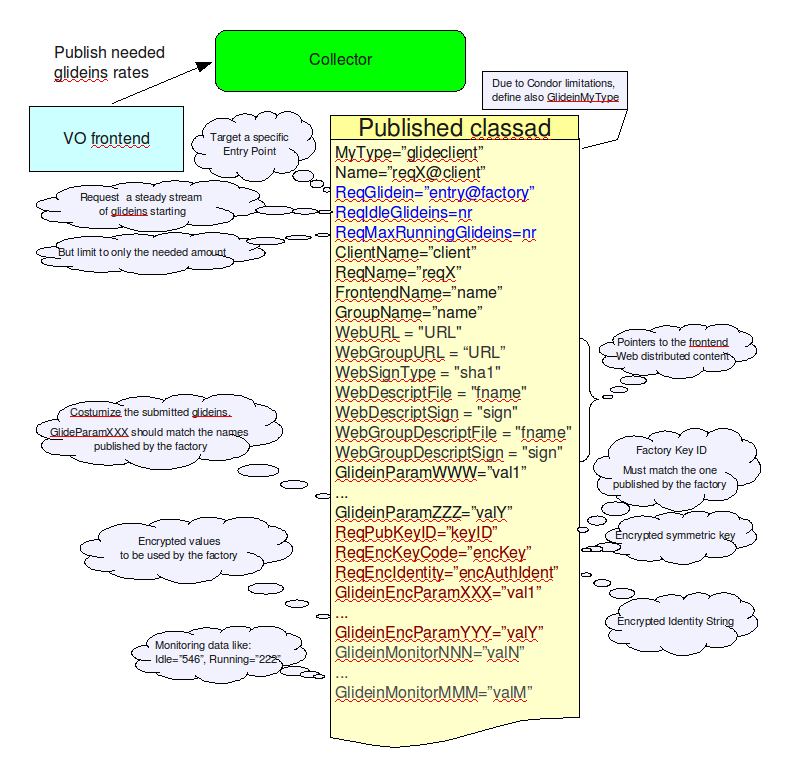
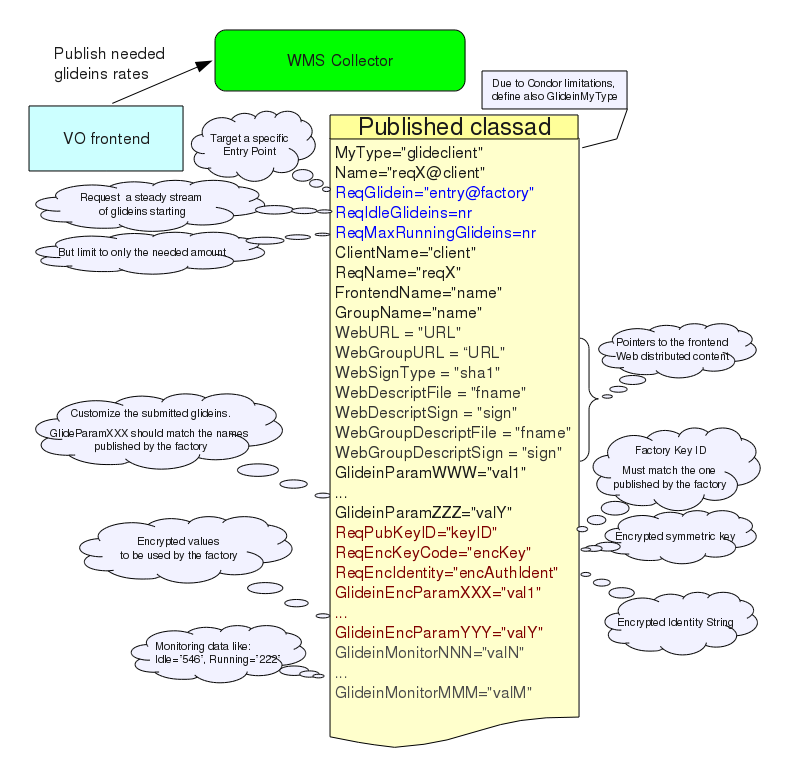
Document glideresource classad

diff --git a/doc/factory/design_data_exchange.html b/doc/factory/design_data_exchange.html
@@ -89,8 +89,14 @@ Factory Design Topics: <br/>
 <p>In the previous section we described the general architecture of
 the WMS. Let now have a look at the type of information that the two
 pieces publish.</p>
-<h3><a name="factory_classads"></a>The Glidein&nbsp;Factory Class-Ad</h3>
-<p>A&nbsp;factory publishes one class-ad per glidein entry. The
+<h3><a name="factory_classads"></a>The Glideini Factory Class-Ad</h3>
+<p>Factory publishes two types of classads</p>
+<ul>
+    <li>glidefactory classads</li>
+    <li>glidefactoryclient classads</li>
+</ul>
+<h4><a name="glidefactory_classads"></a>The glidefactory class-ad:</h4>
+<p>A factory publishes one class-ad per glidein entry. The
 class-ad contains 
 </p>
 <ul>
@@ -111,16 +117,28 @@ notice that the glidein attributes can be completely arbitrary; the
 only predefined attributes are the glidein and factory name, plus the
 convention that anything that starts with <font face="monospace"><b>GlideinParam</b></font>
 is a parameter and anything that starts with <font face="monospace"><b>GlideinMonitor</b></font>
-is a monitoring attribute.<br><br>Once the&nbsp;factory starts
+is a monitoring attribute.<br><br>
+
+<h4><a name="glidefactoryclient_classads"></a>The glidefactoryclient class-ad:</h4>
+Once the factory starts
 serving frontends, it will publish also another ClassAd for every
 frontend served. This ClassAd contains only monitoring information,
 and is not used by the glideinWMS itself.<br>Find below a graphical
 representation of these ClassAds.<br><img src="../images/factory_client_publish.png" name="graphics4" align="BOTTOM" border="0"></p>
+
+
 <h3><a name="frontend_classads"></a>The VO Frontend Class-Ad</h3>
+<p>Frontend publishes two types of classads</p>
+<ul>
+    <li>glideclient classads</li>
+    <li>glideresource classads</li>
+</ul>
+
+<h4><a name="glideclient_classads"></a>The glideclient class-ad:</h4>
 <p>A VO frontend will obtain the list all available glideins and
 select the ones that fit its needs, based on the published
-attributes. For each fitting glidein, a frontend class-ad will be
-published. Such a class-ad will contain 
+attributes. For each fitting glidein, a frontend glideclient class-ad will be
+published to the respective WMS Collector. Such a class-ad will contain 
 </p>
 
 <ul>
@@ -171,6 +189,19 @@ Future versions may contain more sophisticated
 controls, like the maximum number of glideins to keep in the queue or
 the maximum rate at which the glideins should be submitted.</p>
 
+<h4><a name="glideresource_classads"></a>The glideresource class-ad:</h4>
+<p>For every factory entry that accepts requests from the VO frontend, frontend will
+publish glideresource class-ads to the User Pool Collector. Such a class-ad will contains
+</p>
+<ul>
+	<li>Information about the factory and frontend element served and the downtime status</li>
+	<li>Monitoring information from the factory available in glidefactoryclient classad</li>
+	<li>Monitoring information from the frontend about the glideins and jobs</li>
+	<li>Any custom information about the entry that is available through the glidefactory class-ad that a user can use for match-making purposes</li>
+</ul>
+<p>Picture below shows a glideresource classad<br>
+<img src="../images/frontend_publish_resource.png" name="graphics5c" align="BOTTOM" border="0"></p>
+</p>
 </div>
 </body>
 </html>

diff --git a/doc/frontend/design.html b/doc/frontend/design.html
@@ -117,7 +117,9 @@ job[&quot;HasData&quot;] or (glidein[&quot;site&quot;] in string.split(job[&quot
 
 Finally, the advertise procedure loops over the counts and converts
 them into appropriate <A HREF="../factory/design_data_exchange.html#frontend_classads">Condor
-Class Ads</A>.<BR><BR>The glue code is responsible of parsing the
+Class Ads</A>.<BR><BR>
+For every factory entry classad, frontend also advertises resource classads to the User Pool<BR><BR>
+The glue code is responsible of parsing the
 input parameters, loading the configuration values and loop over the
 above steps.</P>
 <P>The frontend also can handle multiple proxies. The proxy selection

diff --git a/doc/index.html b/doc/index.html
@@ -171,4 +171,5 @@ Original Home URL: <a href="http://www.uscms.org/SoftwareComputing/Grid/WMS/glid
 glideinWMS email support: glideinwms-support at fnal.gov
 </div>
 </body>
+
 </html>
